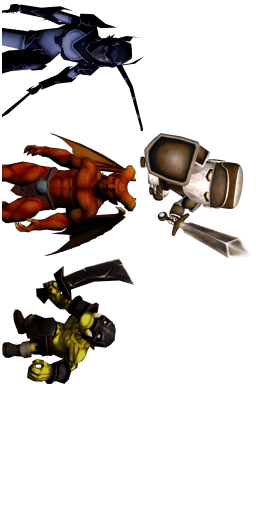
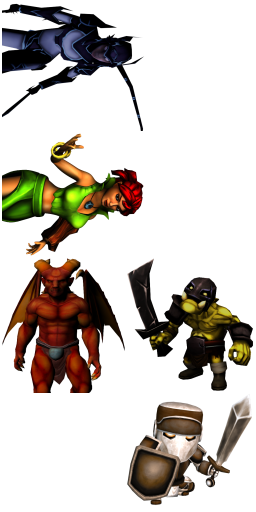
Enough for priestess to show up?

diff --git a/game/src/jocos2d-js/JCTouchLayer.js b/game/src/jocos2d-js/JCTouchLayer.js
@@ -486,7 +486,7 @@ jc.TouchLayer = cc.Layer.extend({
     },
     getGuide:function(char){
         if (char == 'girl'){
-            return "tutorialChar.png";
+            return "priestessEarth_pose.png";
         }else if (char == 'orc'){
             return "orc_pose.png";
         }else if (char == 'demon'){
@@ -626,8 +626,9 @@ jc.TouchLayer = cc.Layer.extend({
 
         var size = this.bubbleMsgSize(msg);
         this.bubble.msg = cc.LabelTTF.create(msg, jc.font.fontName, jc.font.fontSize, size , cc.TEXT_ALIGNMENT_CENTER);
-        this.bubble.msg.setColor(cc.gray());
-        this.bubble.msg.setText(msg);
+        this.bubble.msg.setColor(cc.black());
+        this.bubble.msg.setString(msg);
+
         this.bubble.msg.retain();
         this.getParent().addChild(this.bubble);
         this.bubble.setZOrder(jc.topMost);
@@ -636,7 +637,7 @@ jc.TouchLayer = cc.Layer.extend({
         this.bubble.setScale(0.01, 0.01);
         this.centerThisPeer(this.bubble.msg, this.bubble);
 //        this.bubble.msg.adjustPosition(20*jc.assetScaleFactor, 50*jc.assetScaleFactor);
-        this.popBubble();
+        this.popBubble(element, where);
 
     },
     bubbleMsgSize:function(msg){
@@ -653,15 +654,39 @@ jc.TouchLayer = cc.Layer.extend({
     msgSize:function(msg){
         return cc.size(jc.font.fontSize* msg.length, jc.font.fontSize);
     },
-    popBubble:function(cb){
+    popBubble:function(element, where, cb){
         var cs = this.bubble.getContentSize();
         var cs2 = this.bubble.msg.getContentSize();
         var scaleVal = (cs2.width/(cs.width *0.75));
         var scaleValY = (cs2.height)/(cs.height*0.55);
+        if (scaleValY < 0.5){
+            scaleValY = 0.5;
+        }
         scaleVal = Math.max(scaleVal, 1);
-        scaleValY = Math.max(scaleValY, 1);
 
+        var origPos = this.bubble.getPosition();
+        var origSize = this.bubble.getContentSize();
         var scale = cc.ScaleTo.create(1,scaleVal,scaleValY);
+
+        var diff = cs2.width - origSize.width;
+        var diffh = cs2.height - origSize.height;
+        if (where == 'left' && scaleVal>1){
+            origPos.x -= diff/2;
+        }else if (where == 'right' && scaleVal > 1){
+            origPos.x += diff/2;
+        }
+
+        if (scaleValY > 1){
+            if (diffh < 0){
+                diffh*=-1;
+            }
+            origPos.y += diffh/2;
+        }
+
+        this.bubble.setPosition(origPos);
+        origPos.y += 25* jc.assetScaleFactor;
+        this.bubble.msg.setPosition(origPos);
+
         scale.retain();
         var elastic = cc.EaseElasticOut.create(scale, 0.3);
         elastic.retain();
@@ -674,6 +699,16 @@ jc.TouchLayer = cc.Layer.extend({
             elastic.release();
             seq.release();
             func.release;
+
+//            var eleBox = element.getBoundingBox();
+//            var bubbleBox = this.bubble.getBoundingBox();
+
+//            if (where == 'left'){
+//                this.bubble.setPosition(cc.p(bubbleBox.size.width/2 - eleBox.origin.x, bubbleBox.origin.y));
+//            }else{
+//                this.bubble.setPosition(cc.p(eleBox.origin.x + eleBox.size.width + bubbleBox.size.width/2, bubbleBox.origin.y));
+//            }
+
         }.bind(this));
         func.retain();
         var seq = cc.Sequence.create(elastic, func);
